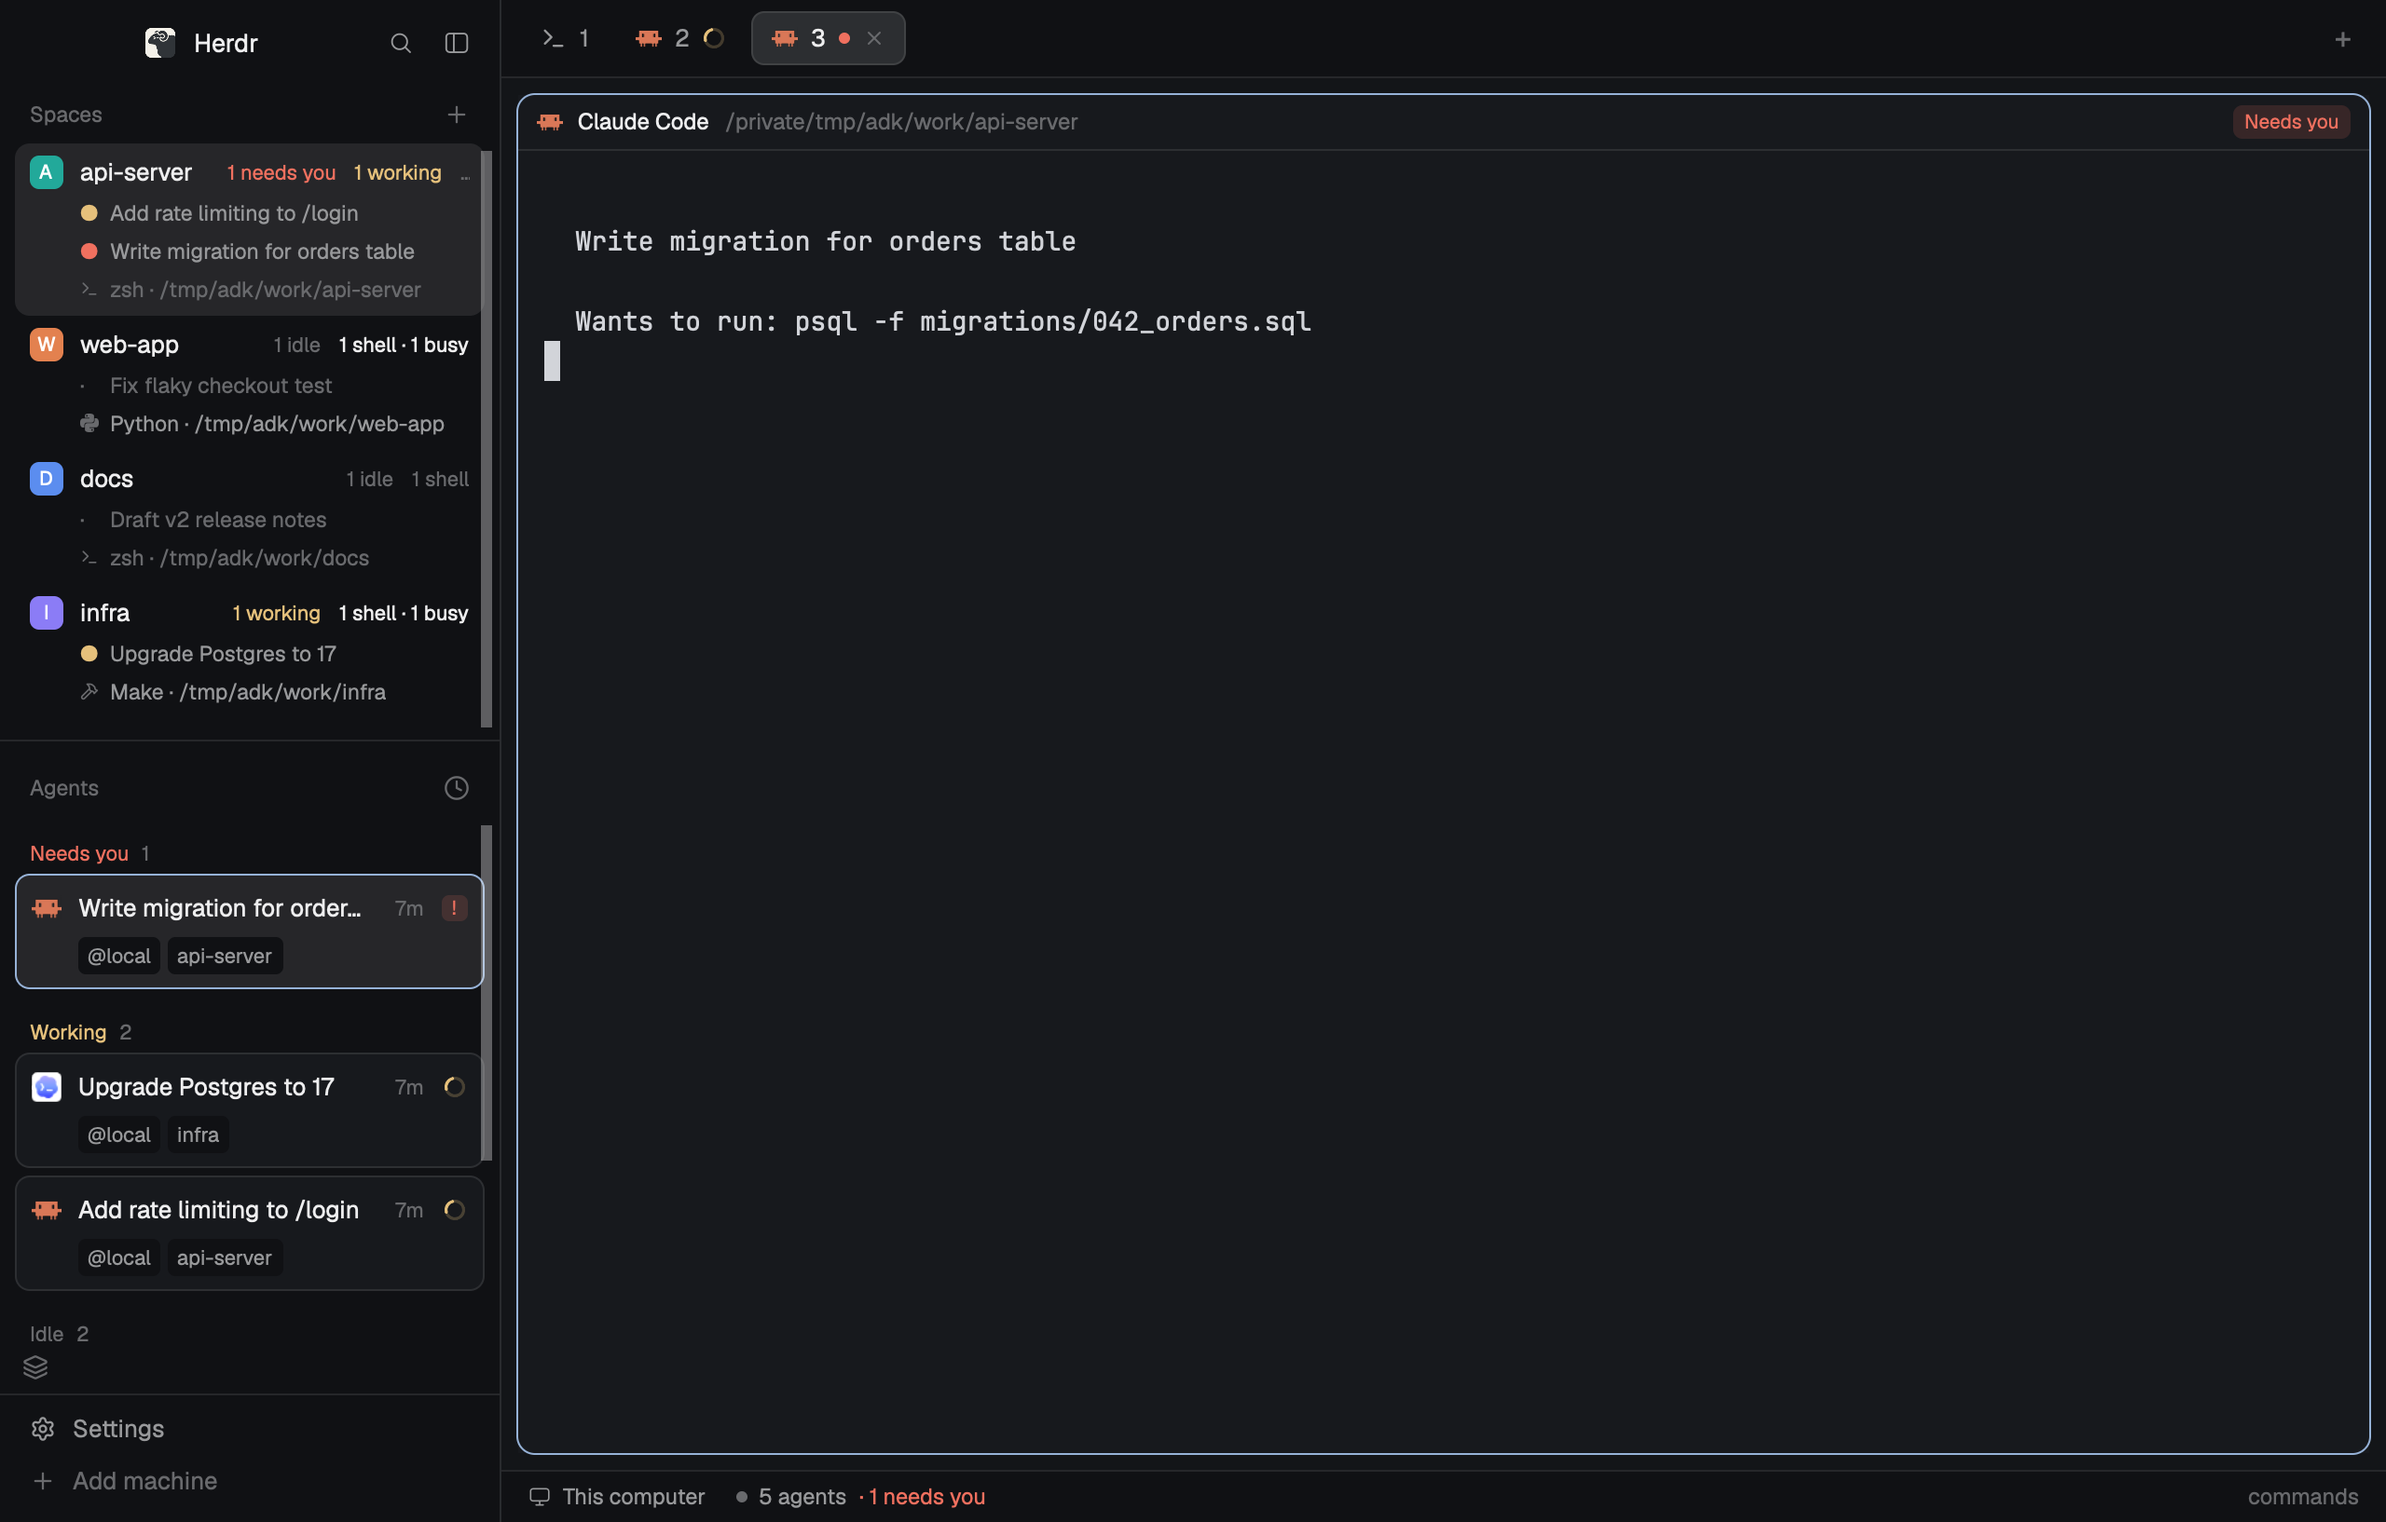
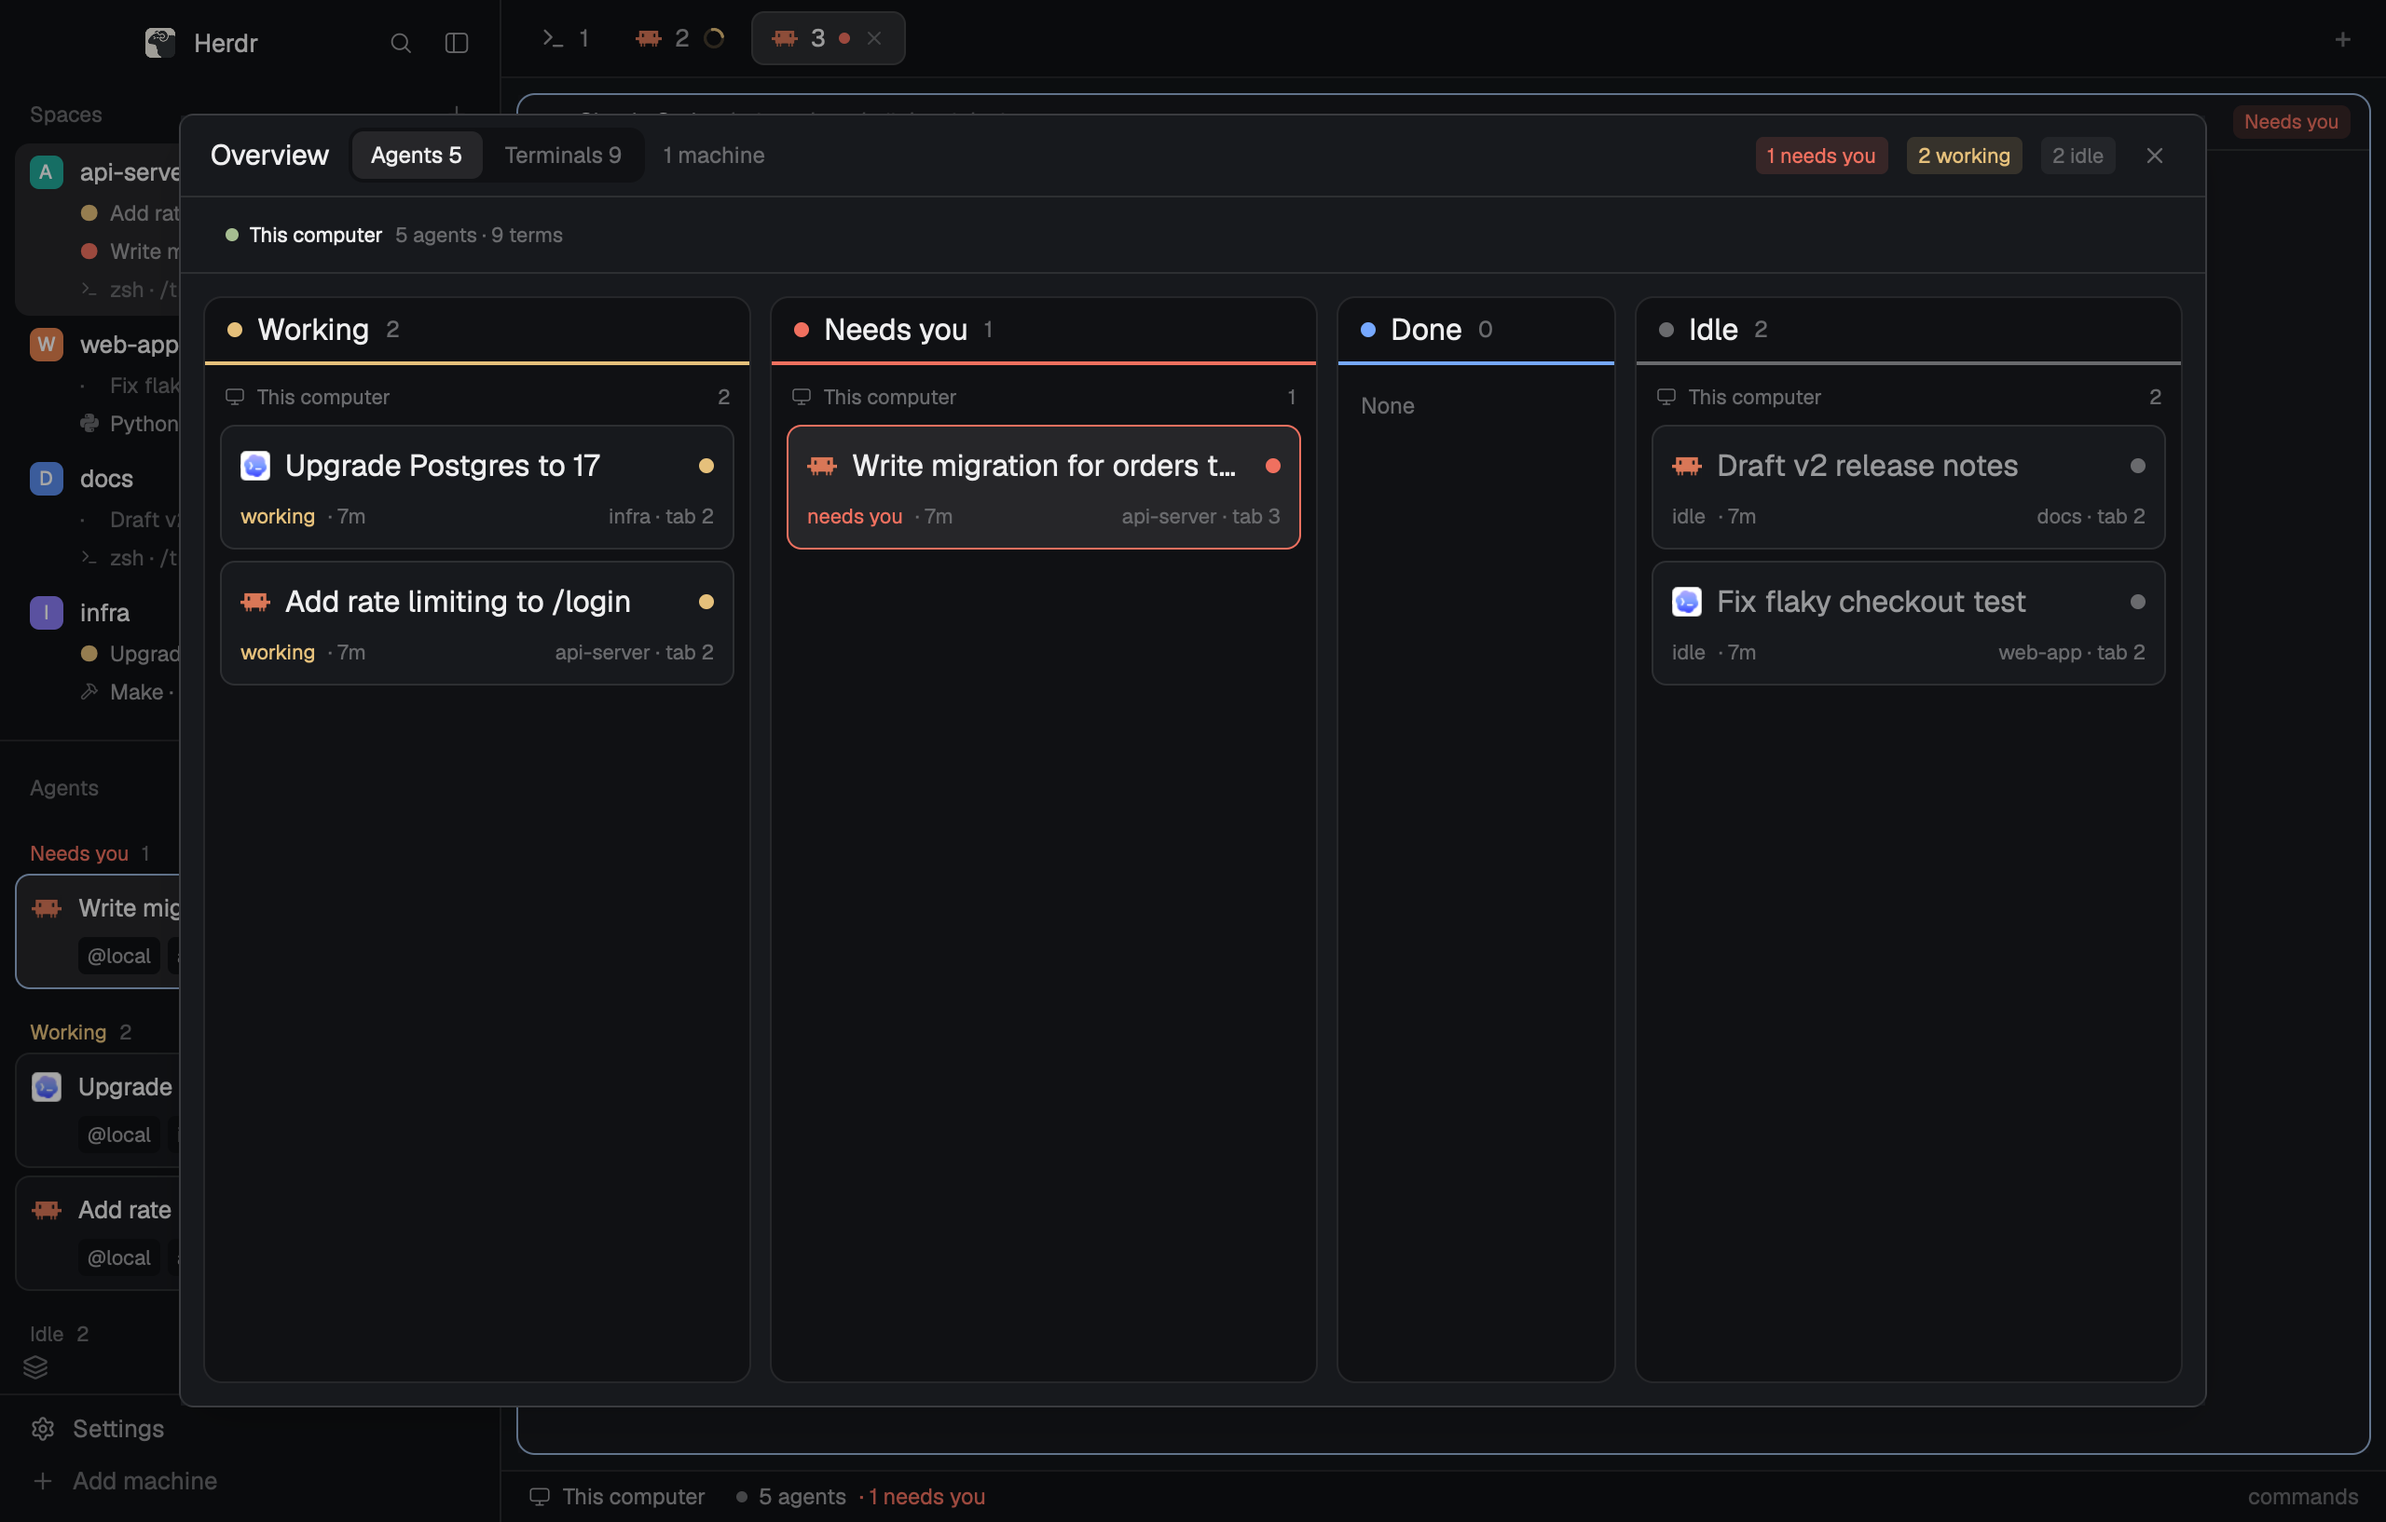
docs: preview.png is now the agents overview (herdr.dev card picture)
The old main-window shot moves to main-window.png.

diff --git a/README.md b/README.md
@@ -4,11 +4,11 @@ A [Herdr](https://herdr.dev) layout: [`agent-deck`](agent-deck/RECIPE.md).
 
 It shows every agent and terminal on every machine. Space rows list their chats, shells and running programs. Agents are cards, and hover cards work on the narrow rail. An Overview board (`⌘⇧O`) has one lane per agent state and one lane per machine for terminals, with each terminal's command and last output lines.
 
-![Overview: agents](agent-deck/overview-agents.png)
+![Overview: agents](agent-deck/preview.png)
 
 | Main window | Overview: terminals |
 | --- | --- |
-| ![Agent Deck](agent-deck/preview.png) | ![Terminals](agent-deck/overview-terminals.png) |
+| ![Main window](agent-deck/main-window.png) | ![Terminals](agent-deck/overview-terminals.png) |
 
 ## Install
 

diff --git a/agent-deck/RECIPE.md b/agent-deck/RECIPE.md
@@ -2,7 +2,9 @@
 
 Herdr's main window rebuilt to show what every agent is doing on every machine. Spaces say what's inside them: chat names, status counts, open shells and running programs. Agents are two-line cards. On the narrow rail, resting the pointer on a row shows its wide card. A full-window Overview (`⌘⇧O`) lays out every agent as a board with one lane per state, and every terminal on every machine with its command and last output lines.
 
-![Agent Deck](preview.png)
+![Overview: agents](preview.png)
+
+![Main window](main-window.png)
 
 ## What you see
 
